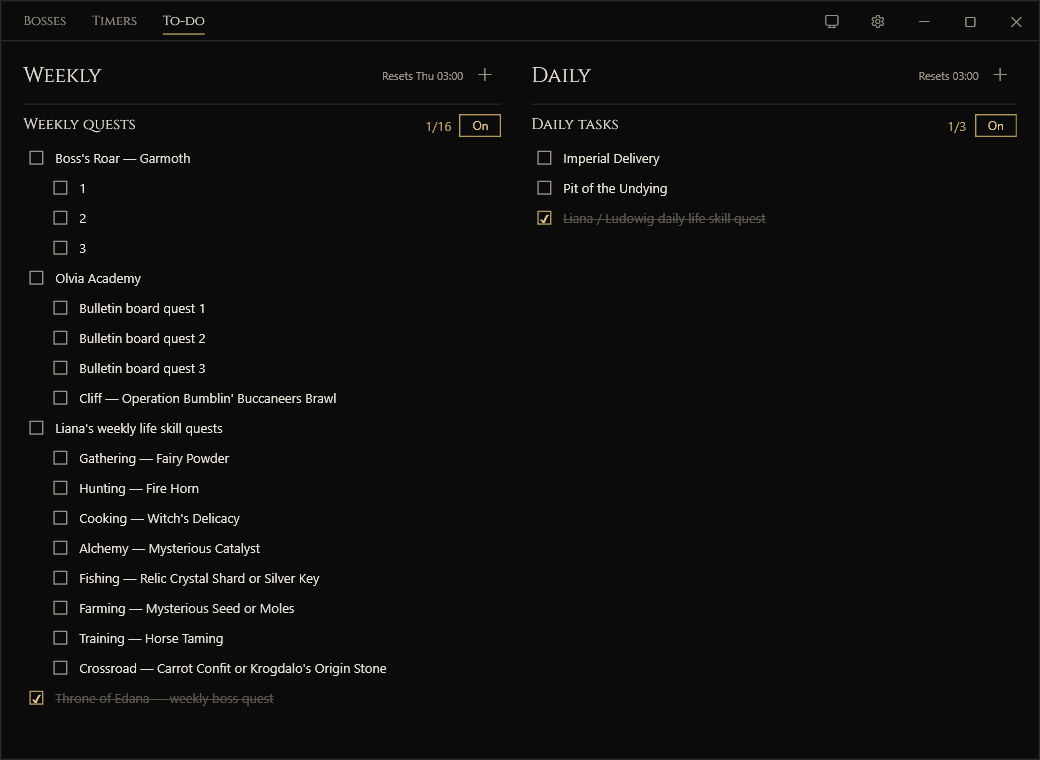
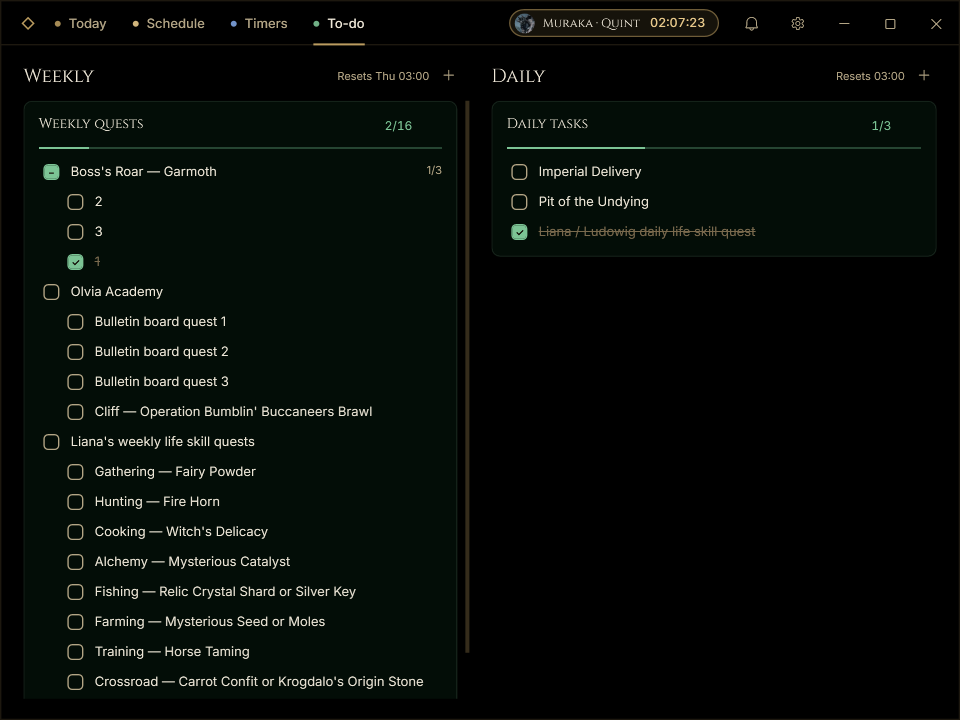
feat: screens ease in, README shows Today and Schedule

diff --git a/src/BdoTimers.App/Views/MainWindow.xaml b/src/BdoTimers.App/Views/MainWindow.xaml
@@ -135,13 +135,13 @@
                <Grid Width="{Binding ViewportWidth, ElementName=ScreenScroller}" Height="{Binding ViewportHeight, ElementName=ScreenScroller}"
                      MinWidth="640" MinHeight="300">
                <Grid Margin="22,18,22,20">
-                <views:TodayView DataContext="{Binding Today}"
+                <views:TodayView x:Name="TodayScreen" DataContext="{Binding Today}"
                                  Visibility="{Binding IsChecked, ElementName=TodayTab, Converter={StaticResource BoolToVisibility}}" />
-                <views:ScheduleView DataContext="{Binding Schedule}"
+                <views:ScheduleView x:Name="ScheduleScreen" DataContext="{Binding Schedule}"
                                     Visibility="{Binding IsChecked, ElementName=ScheduleTab, Converter={StaticResource BoolToVisibility}}" />
-                <views:CustomView DataContext="{Binding Custom}"
+                <views:CustomView x:Name="CustomScreen" DataContext="{Binding Custom}"
                                   Visibility="{Binding IsChecked, ElementName=CustomTab, Converter={StaticResource BoolToVisibility}}" />
-                <views:TodoView DataContext="{Binding Todo}"
+                <views:TodoView x:Name="TodoScreen" DataContext="{Binding Todo}"
                                 Visibility="{Binding IsChecked, ElementName=TodoTab, Converter={StaticResource BoolToVisibility}}" />
                </Grid>
                </Grid>

diff --git a/tests/BdoTimers.App.Tests/UiShots.cs b/tests/BdoTimers.App.Tests/UiShots.cs
@@ -30,21 +30,21 @@ public class UiShots
             {
                 window.Show();
                 main.SetShown(true);
+                // The lists start off; look at that, then turn them on and tick some rows for the other screens.
+                ((RadioButton)window.FindName("TodoTab")).IsChecked = true;
+                WpfTest.Drain();
+                UiCapture.Save(window, "todo-off.png");
+                foreach (var list in services.Todos.Current.Lists) services.Todos.SetEnabled(list.Id, true);
+                var weekly = services.Todos.Current.Lists.First(l => l.Cadence == TodoCadence.Weekly);
+                var daily = services.Todos.Current.Lists.First(l => l.Cadence == TodoCadence.Daily);
+                services.Todos.Toggle(weekly.Id, weekly.Rows[0].Id);
+                services.Todos.Toggle(weekly.Id, weekly.Rows[1].Children[0].Id);
+                services.Todos.Toggle(daily.Id, daily.Rows[0].Id);
+                WpfTest.Drain();
                 foreach (var (tab, name) in new[] { ("TodayTab", "today"), ("ScheduleTab", "schedule"), ("CustomTab", "timers"), ("TodoTab", "todo") })
                 {
                     ((RadioButton)window.FindName(tab)).IsChecked = true;
                     WpfTest.Drain();
-                    if (name == "todo")
-                    {
-                        UiCapture.Save(window, "todo-off.png");
-                        foreach (var list in services.Todos.Current.Lists) services.Todos.SetEnabled(list.Id, true);
-                        var weekly = services.Todos.Current.Lists.First(l => l.Cadence == TodoCadence.Weekly);
-                        var daily = services.Todos.Current.Lists.First(l => l.Cadence == TodoCadence.Daily);
-                        services.Todos.Toggle(weekly.Id, weekly.Rows[0].Id);
-                        services.Todos.Toggle(weekly.Id, weekly.Rows[1].Children[0].Id);
-                        services.Todos.Toggle(daily.Id, daily.Rows[0].Id);
-                        WpfTest.Drain();
-                    }
                     UiCapture.Save(window, $"{name}.png");
                     if (name == "schedule")
                     {
@@ -77,6 +77,58 @@ public class UiShots
                 main.OpenPanel(new FollowingPanelViewModel(services, main));
                 WpfTest.Drain();
                 UiCapture.Save(window, "following.png");
+            }
+            finally
+            {
+                typeof(AppServices).GetField("<IsQuitting>k__BackingField", System.Reflection.BindingFlags.Instance | System.Reflection.BindingFlags.NonPublic)!.SetValue(services, true);
+                window.Close();
+            }
+        }
+        finally { if (Directory.Exists(root)) Directory.Delete(root, true); }
+    });
+
+    /// <summary>The smallest supported cases: 640 wide at 100 %, and the minimum window at 150 % text.</summary>
+    [Fact]
+    public void Narrow_windows_and_large_text_render() => WpfTest.Run(() =>
+    {
+        if (Environment.GetEnvironmentVariable("BDOTIMERS_SHOTS") is null) return;
+        var root = Path.Combine(Path.GetTempPath(), "BdoTimers.Shots." + Guid.NewGuid());
+        try
+        {
+            using var services = new AppServices(Application.Current, root);
+            var farm = services.Timers.Current.Timers.First(t => t.Preset == Presets.Farm);
+            services.Timers.Start(farm.Id, services.Clock.UtcNow.AddHours(-12));
+            foreach (var list in services.Todos.Current.Lists) services.Todos.SetEnabled(list.Id, true);
+            using var main = new MainViewModel(services);
+            var window = new MainWindow(main, services) { Width = 640, Height = 540, Left = -10000, Top = -10000, ShowInTaskbar = false };
+            try
+            {
+                window.Show();
+                main.SetShown(true);
+                var tabs = new[] { ("TodayTab", "today"), ("ScheduleTab", "schedule"), ("CustomTab", "timers"), ("TodoTab", "todo") };
+                void Capture(string suffix)
+                {
+                    foreach (var (tab, name) in tabs)
+                    {
+                        ((RadioButton)window.FindName(tab)).IsChecked = true;
+                        WpfTest.Drain();
+                        UiCapture.Save(window, $"{name}-{suffix}.png");
+                    }
+                }
+                Capture("640");
+                services.Settings.Update(s => s with { TextScale = 1.5 });
+                WpfTest.Drain();
+                window.Width = 960;
+                window.Height = 720;
+                WpfTest.Drain();
+                Capture("150-min");
+                window.Width = 1440;
+                window.Height = 1080;
+                WpfTest.Drain();
+                Capture("150");
+                main.OpenPanel(new BossPanelViewModel(services, main, services.Timers.Current.Timers.First(t => t.IsBuiltIn)));
+                WpfTest.Drain();
+                UiCapture.Save(window, "boss-panel-150.png");
             }
             finally
             {

diff --git a/src/BdoTimers.App/Views/MainWindow.xaml.cs b/src/BdoTimers.App/Views/MainWindow.xaml.cs
@@ -175,6 +175,24 @@ public partial class MainWindow : Window
         if (_vm is null) return;
         _vm.SelectedTab = Enum.Parse<MainTab>((string)((RadioButton)sender).Tag);
         UpdateChip();
+        EaseIn(ScreenOf(_vm.SelectedTab));
+    }
+
+    FrameworkElement ScreenOf(MainTab tab) => tab switch
+    {
+        MainTab.Today => TodayScreen,
+        MainTab.Schedule => ScheduleScreen,
+        MainTab.Timers => CustomScreen,
+        _ => TodoScreen,
+    };
+
+    /// <summary>A screen eases in when its tab is picked: a quick fade with a short rise, unless Windows has animations off.</summary>
+    static void EaseIn(FrameworkElement screen)
+    {
+        if (!SystemParameters.ClientAreaAnimation || !screen.IsLoaded) return;
+        if (screen.RenderTransform is not TranslateTransform rise) screen.RenderTransform = rise = new TranslateTransform();
+        screen.BeginAnimation(OpacityProperty, Move(0, 1, Quick, Entering));
+        rise.BeginAnimation(TranslateTransform.YProperty, Move(5, 0, Quick, Entering));
     }
 
     RadioButton TabOf(MainTab tab) => tab switch

diff --git a/README.md b/README.md
@@ -16,12 +16,20 @@
   <a href="CONTRIBUTING.md">Build &amp; contribute</a>
 </p>
 
-![Bosses screen showing upcoming spawns, the weekly timetable and individual boss settings](docs/images/bosses.png)
+![Today with the next boss spawn, the next 24 hours, running timers and daily tasks](docs/images/today.png)
 
-## Bosses
+## Today
 
-World boss schedules for EU and NA, shown in your local time with countdowns to upcoming spawns.
-Event bosses can be added alongside the built-in timetable. [Timetable sources](docs/boss-region-sources.md).
+The next boss spawn counts down at the top, with the one after it and the alert times. Below it, the next 24 hours of
+spawns, timers and resets; on the right, the timers that are running and your daily tasks.
+
+![Schedule with this week's boss spawns](docs/images/schedule.png)
+
+## Schedule
+
+World boss schedules for EU and NA, shown in your local time: this week's grid, and a month view with your timers and
+events. Choose which bosses to follow in **Following**; event bosses can be added alongside the built-in timetable.
+[Timetable sources](docs/boss-region-sources.md).
 
 ## Timers
 

diff --git a/BACKLOG.md b/BACKLOG.md
@@ -1,6 +1,7 @@
 # Backlog (post-v1)
 
-- **Calendar, next steps** - week and agenda views and `.ics` export; see [the plan](docs/calendar-plan.md).
+- **Schedule, next steps** - a Week that shows every kind of item (timers, events, resets) beside the bosses, an agenda
+  view and `.ics` export; see [the plan](docs/calendar-plan.md).
 - **Session tracker** - stopwatch + log of farming sessions: spot, duration, notes, silver earned, screenshot uploads
   (stored under the app's Data\sessions\). History view with totals.
 - **Farm on the overlay follows its Alerts switch** - hide Farm's overlay row while its alerts are Off, even with the
